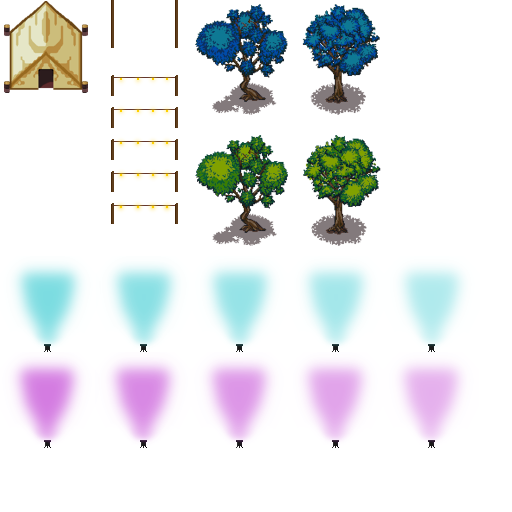
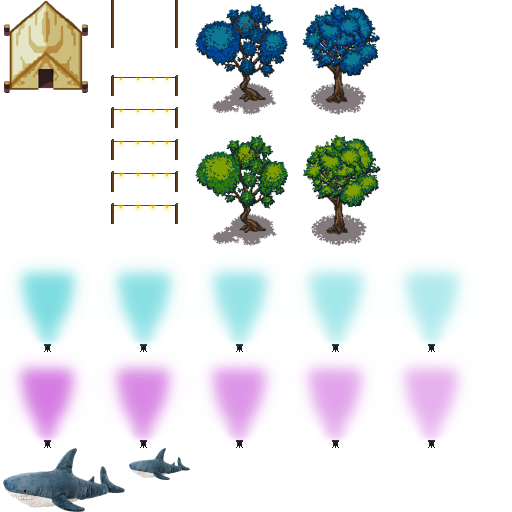
Add Blåhaj

Changed region(s): [[0.0, 0.875, 0.25, 1.0], [0.25, 0.875, 0.375, 0.9375]]

diff --git a/tilesets/cccamp2019.tsx b/tilesets/cccamp2019.tsx
@@ -392,4 +392,54 @@
    <frame tileid="210" duration="300"/>
   </animation>
  </tile>
+ <tile id="224">
+  <properties>
+   <property name="collides" type="bool" value="true"/>
+  </properties>
+ </tile>
+ <tile id="225">
+  <properties>
+   <property name="collides" type="bool" value="true"/>
+  </properties>
+ </tile>
+ <tile id="226">
+  <properties>
+   <property name="collides" type="bool" value="true"/>
+  </properties>
+ </tile>
+ <tile id="227">
+  <properties>
+   <property name="collides" type="bool" value="true"/>
+  </properties>
+ </tile>
+ <tile id="228">
+  <properties>
+   <property name="collides" type="bool" value="true"/>
+  </properties>
+ </tile>
+ <tile id="229">
+  <properties>
+   <property name="collides" type="bool" value="true"/>
+  </properties>
+ </tile>
+ <tile id="240">
+  <properties>
+   <property name="collides" type="bool" value="true"/>
+  </properties>
+ </tile>
+ <tile id="241">
+  <properties>
+   <property name="collides" type="bool" value="true"/>
+  </properties>
+ </tile>
+ <tile id="242">
+  <properties>
+   <property name="collides" type="bool" value="true"/>
+  </properties>
+ </tile>
+ <tile id="243">
+  <properties>
+   <property name="collides" type="bool" value="true"/>
+  </properties>
+ </tile>
 </tileset>
